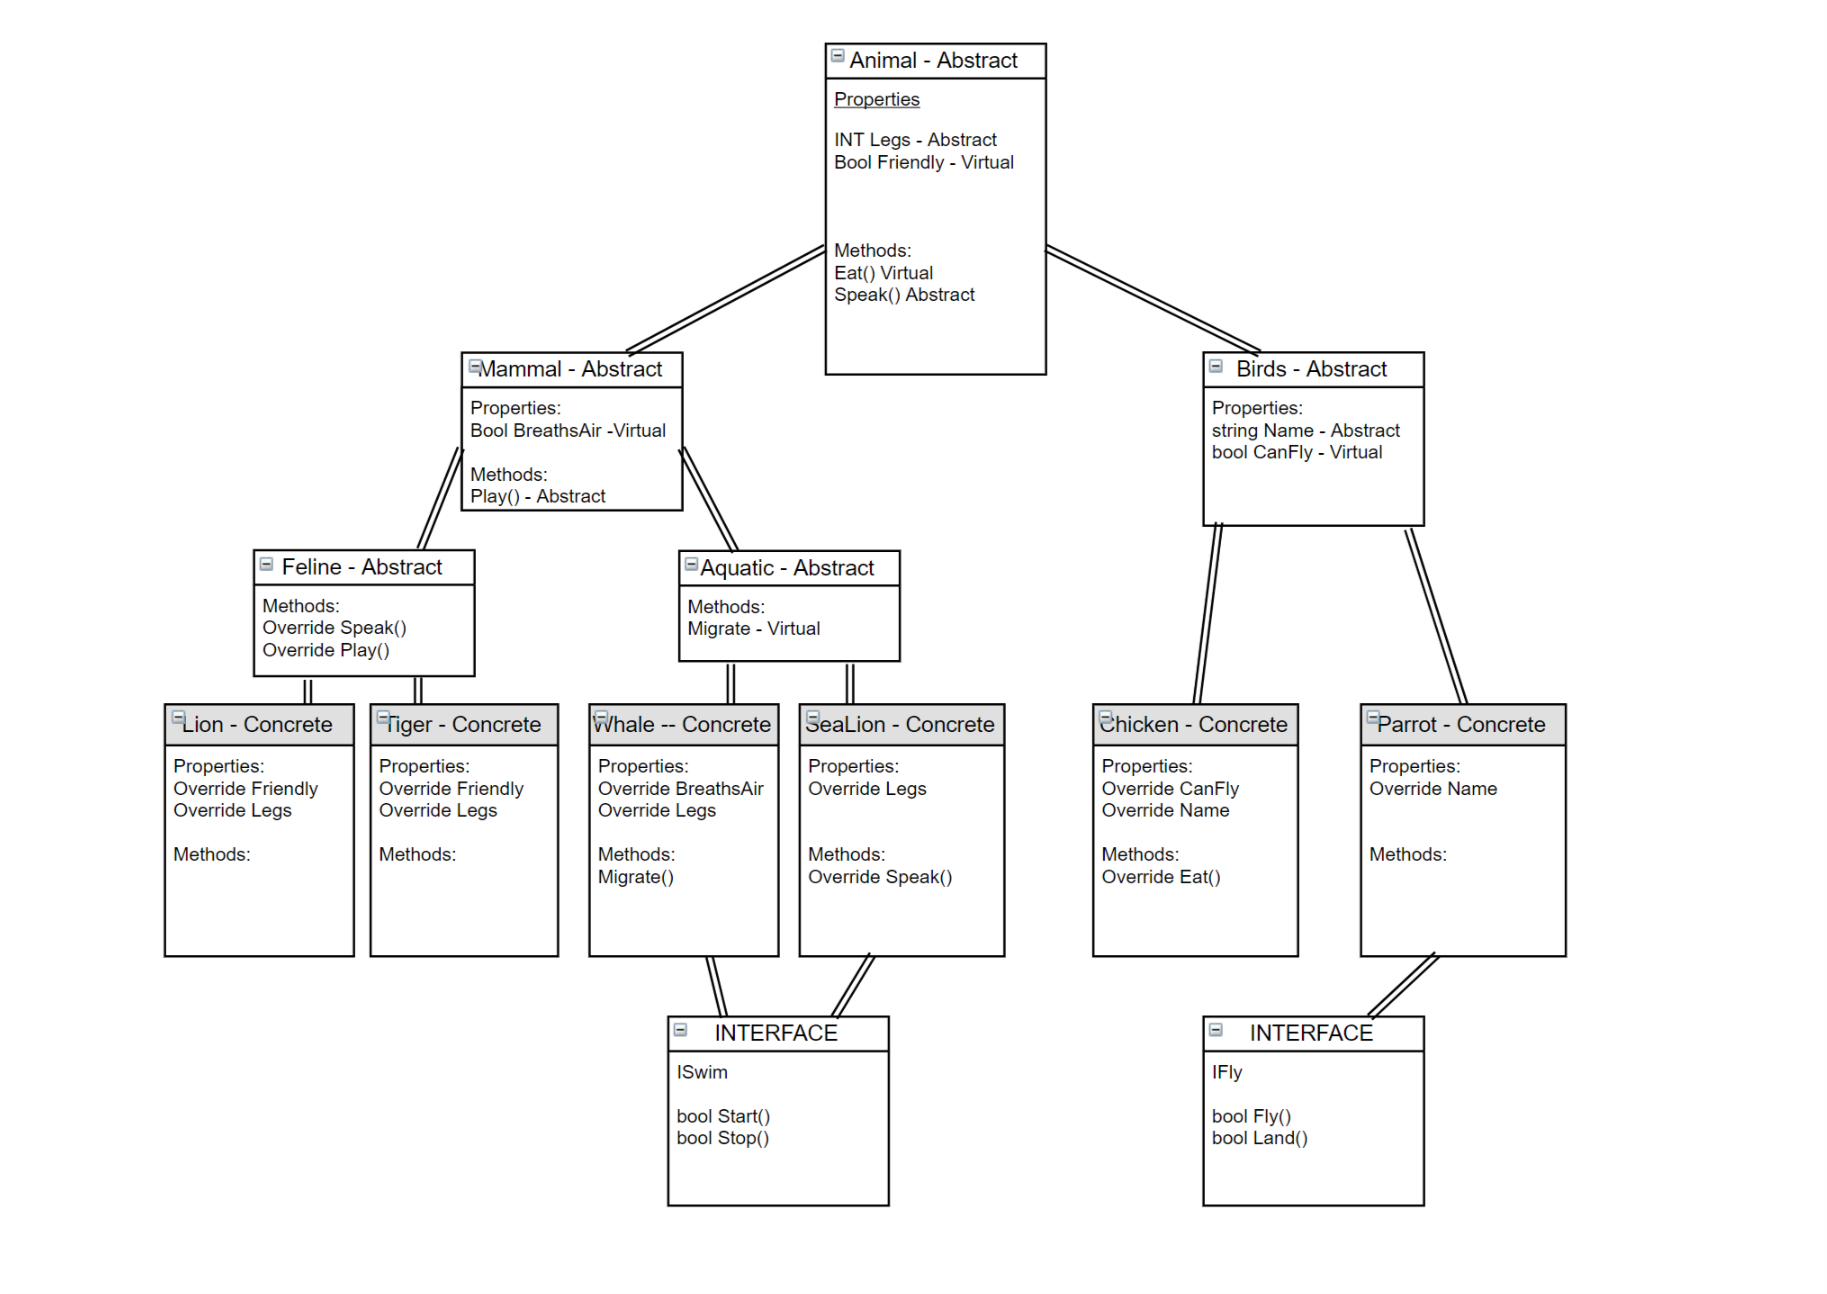
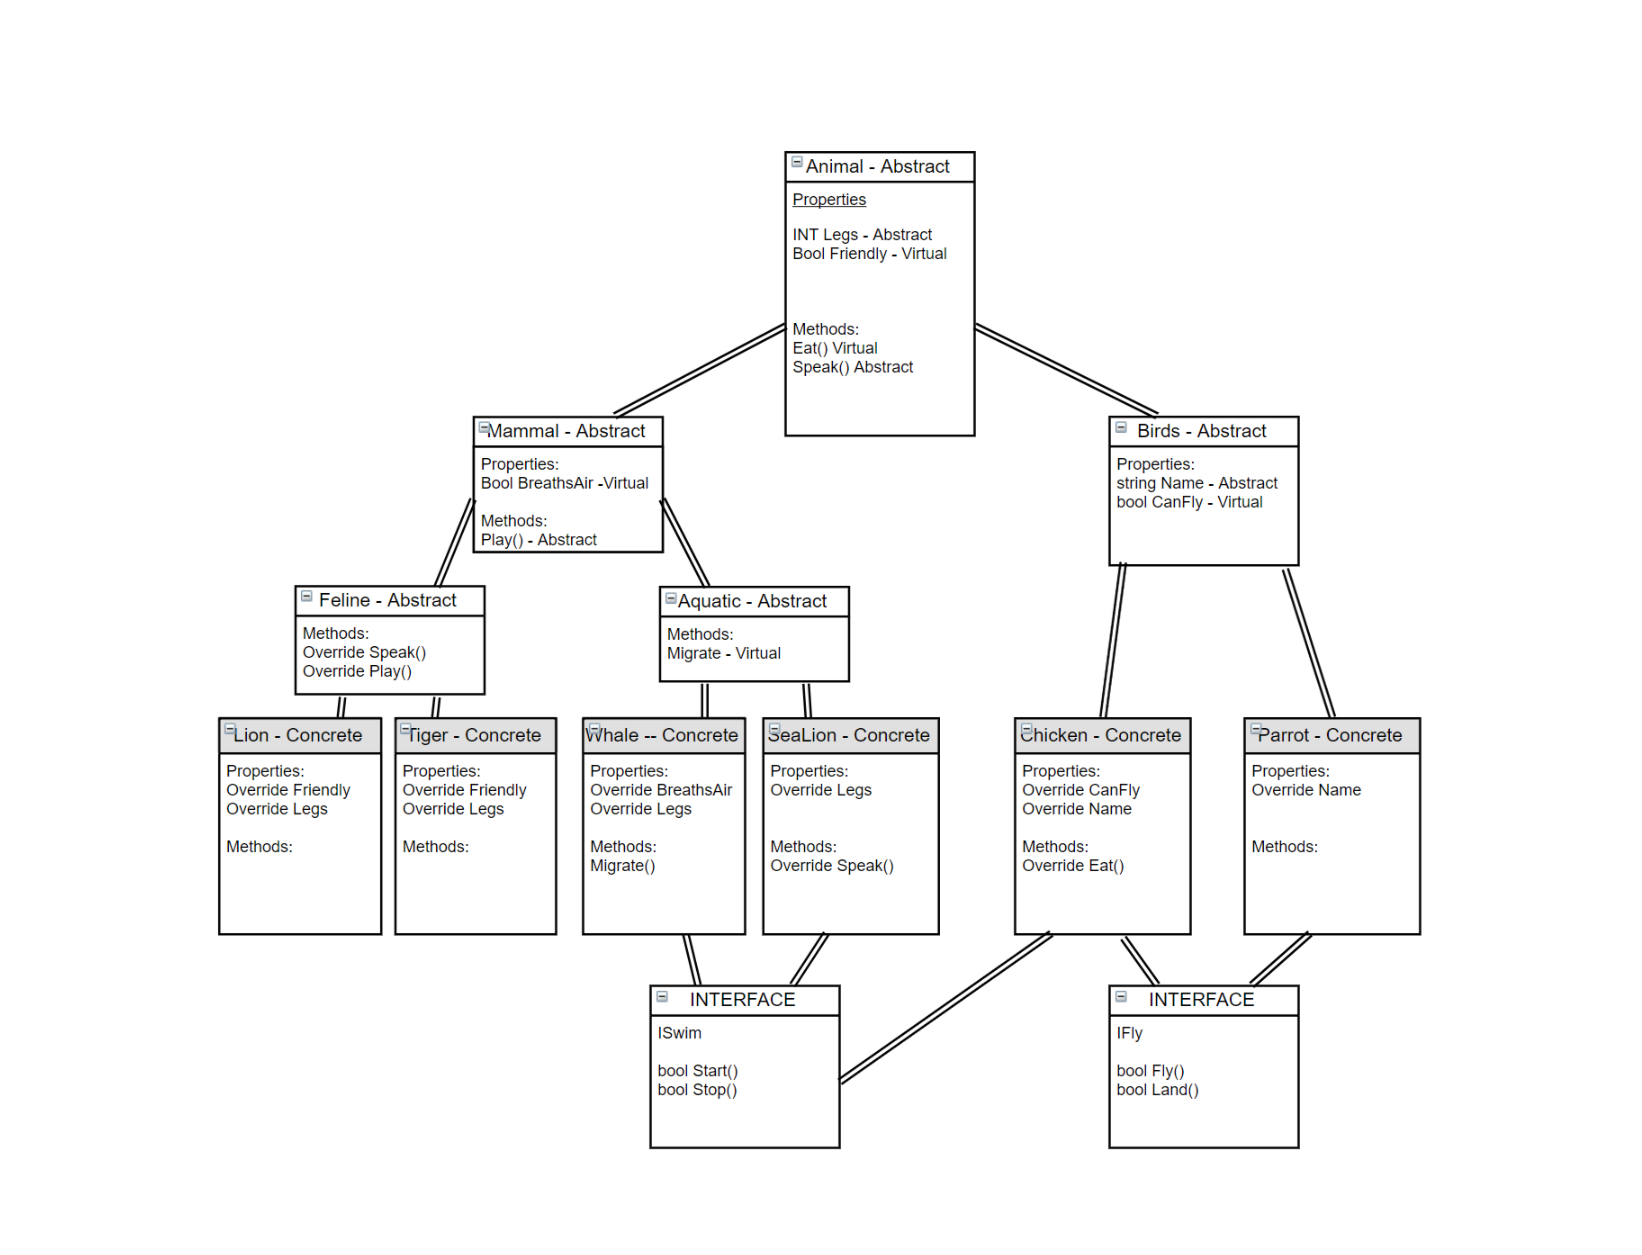
Made interfaces

diff --git a/Zoo/Classes/Chicken.cs b/Zoo/Classes/Chicken.cs
@@ -1,10 +1,11 @@
 using System;
 using System.Collections.Generic;
 using System.Text;
+using Zoo.Interfaces;
 
 namespace Zoo.Classes
 {
-    class Chicken : Birds
+    class Chicken : Birds, Ifly, Iswim
     {
         public override string Name { get; set; } = "Chester";
         public override int Legs { get; set; } = 2;
@@ -18,6 +19,24 @@ namespace Zoo.Classes
         {
             Console.Write($"{Name} is not hungry\n"); 
             return false;
+        }
+        public void Fly()
+        {
+            Console.Write("I am starting to fly\n");
+        }
+
+        public void Land()
+        {
+            Console.Write("I am not longer flying\n");
+        }
+        public void Swim()
+        {
+            Console.Write("I am starting to swim\n");
+        }
+
+        public void Stop()
+        {
+            Console.Write("I am not longer swimming\n");
         }
     }
 }

diff --git a/Zoo/Classes/Parrot.cs b/Zoo/Classes/Parrot.cs
@@ -1,10 +1,11 @@
 using System;
 using System.Collections.Generic;
 using System.Text;
+using Zoo.Interfaces;
 
 namespace Zoo.Classes
 {
-    class Parrot : Birds
+    class Parrot : Birds , Ifly
     {
         public override string Name { get; set; } = "Picky Parrot";
         public override int Legs { get; set; } = 2;
@@ -13,6 +14,16 @@ namespace Zoo.Classes
         {
             Console.Write($"Parrot: Hello!\n");
             return true;
+        }
+
+        public void Fly()
+        {
+            Console.Write("I am starting to fly\n");
+        }
+
+        public void Land()
+        {
+            Console.Write("I am not longer flying\n");
         }
     }
 }

diff --git a/Zoo/Classes/SeaLion.cs b/Zoo/Classes/SeaLion.cs
@@ -1,10 +1,11 @@
 using System;
 using System.Collections.Generic;
 using System.Text;
+using Zoo.Interfaces;
 
 namespace Zoo.Classes
 {
-    class SeaLion : Aquatic
+    class SeaLion : Aquatic, Iswim
     {
         public override int Legs { get; set; } = 4;
         public override bool Play()
@@ -17,6 +18,15 @@ namespace Zoo.Classes
         {
             Console.Write("Sea Lion: BARK BARK\n");
             return true;
+        }
+        public void Swim()
+        {
+            Console.Write("I am starting to swim\n");
+        }
+
+        public void Stop()
+        {
+            Console.Write("I am not longer swimming\n");
         }
     }
 }

diff --git a/Zoo/Classes/Whale.cs b/Zoo/Classes/Whale.cs
@@ -1,10 +1,11 @@
 using System;
 using System.Collections.Generic;
 using System.Text;
+using Zoo.Interfaces;
 
 namespace Zoo.Classes
 {
-    class Whale : Aquatic
+    class Whale : Aquatic, Iswim 
     {
         public override int Legs { get; set; } = 0;
 
@@ -18,6 +19,15 @@ namespace Zoo.Classes
         {
             Console.Write("Whale: Whale noises\n");
             return true;
+        }
+
+        public void Stop()
+        {
+
+        }
+
+        public void Swim()
+        {
         }
     }
 }

diff --git a/Zoo/Interfaces/Ifly.cs b/Zoo/Interfaces/Ifly.cs
@@ -1,0 +1,13 @@
+using System;
+using System.Collections.Generic;
+using System.Text;
+
+namespace Zoo.Interfaces
+{
+    interface Ifly
+    {
+        void Fly();
+        void Land();
+
+    }
+}

diff --git a/Zoo/Interfaces/Iswim.cs b/Zoo/Interfaces/Iswim.cs
@@ -1,0 +1,12 @@
+using System;
+using System.Collections.Generic;
+using System.Text;
+
+namespace Zoo.Interfaces
+{
+    interface Iswim
+    {
+        void Swim();
+        void Stop();
+    }
+}
